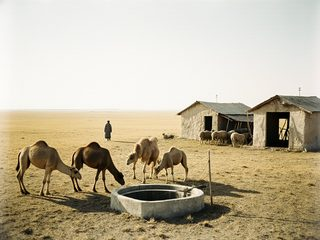
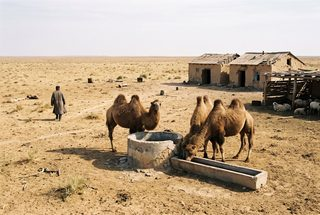
New photo for the steppe well hamlets

diff --git a/wiki/Kalmak-Kuduk.html b/wiki/Kalmak-Kuduk.html
@@ -14,7 +14,7 @@
 <meta property="og:description" content="Kalmak-Kuduk (&quot;Kalmyk well&quot;) is a borehole and watering point on the southern Betpak-Dala, in the Northern Steppe planning zone of the Autonomous Tribal…">
 <meta property="og:url" content="https://irad.wiki/wiki/Kalmak-Kuduk">
 <meta property="og:image" content="https://irad.wiki/images/Steppe_well_hamlet.jpg">
-<meta property="og:image:alt" content="A tiny steppe settlement of three low houses and a livestock shelter beside a concrete well with a water trough, camels and sheep drinking, flat yellow steppe to the horizon, one herder in a quilted coat in the distance">
+<meta property="og:image:alt" content="A tiny steppe settlement of two low mud-brick houses with tin roofs and a livestock shelter full of sheep, three Bactrian camels at a concrete well and water trough, flat yellow steppe to the horizon, a herder in a quilted coat walking away">
 <meta property="og:locale" content="en_US">
 <meta name="twitter:card" content="summary_large_image">
 <meta name="twitter:title" content="Kalmak-Kuduk – Irad Wiki">
@@ -90,7 +90,7 @@
 <div class="title-row"><h1 class="firstHeading">Kalmak-Kuduk</h1></div>
 <div class="siteSub">From Irad Wiki, the free encyclopedia</div>
 <div class="prose">
-<figure class="thumb lead" style="width:308px"><img src="/images/Steppe_well_hamlet.jpg" width="300" alt="A tiny steppe settlement of three low houses and a livestock shelter beside a concrete well with a water trough, camels and sheep drinking, flat yellow steppe to the horizon, one herder in a quilted coat in the distance"><figcaption>A borehole and watering point on the southern <a class="wl" href="/wiki/Betpak-Dala" title="Betpak-Dala">Betpak-Dala</a></figcaption></figure>
+<figure class="thumb lead" style="width:308px"><img src="/images/Steppe_well_hamlet.jpg" width="300" alt="A tiny steppe settlement of two low mud-brick houses with tin roofs and a livestock shelter full of sheep, three Bactrian camels at a concrete well and water trough, flat yellow steppe to the horizon, a herder in a quilted coat walking away"><figcaption>A borehole and watering point on the southern <a class="wl" href="/wiki/Betpak-Dala" title="Betpak-Dala">Betpak-Dala</a></figcaption></figure>
 <p><strong>Kalmak-Kuduk</strong> (&quot;Kalmyk well&quot;) is a borehole and watering point on the southern <a class="wl" href="/wiki/Betpak-Dala" title="Betpak-Dala">Betpak-Dala</a>, in the Northern Steppe planning zone of the <a class="wl" href="/wiki/Autonomous_Tribal_Regions" title="Autonomous Tribal Regions">Autonomous Tribal Regions</a>. It was drilled in 1967 to a depth of about 180 meters for a Soviet sheep farm, beside an older hand-dug well that tradition attributes to the <a class="ext" href="https://en.wikipedia.org/wiki/Dzungar_people" rel="noopener">Dzungars</a> (<em>Kalmak</em>) of the 18th century.<sup>[1]</sup> Its pump failed in 1993, and the surrounding winter pastures were little used until 2011, when an aid-funded solar pump restored the supply. It now waters about 4,000 sheep each winter.<sup>[2]</sup></p>
 <h2>References</h2>
 <ol class="references">

diff --git a/wiki/Tört-Kuduk.html b/wiki/Tört-Kuduk.html
@@ -14,7 +14,7 @@
 <meta property="og:description" content="Tört-Kuduk, an article in Irad Wiki, the free encyclopedia of Irad.">
 <meta property="og:url" content="https://irad.wiki/wiki/T%C3%B6rt-Kuduk">
 <meta property="og:image" content="https://irad.wiki/images/Steppe_well_hamlet.jpg">
-<meta property="og:image:alt" content="A tiny steppe settlement of three low houses and a livestock shelter beside a concrete well with a water trough, camels and sheep drinking, flat yellow steppe to the horizon, one herder in a quilted coat in the distance">
+<meta property="og:image:alt" content="A tiny steppe settlement of two low mud-brick houses with tin roofs and a livestock shelter full of sheep, three Bactrian camels at a concrete well and water trough, flat yellow steppe to the horizon, a herder in a quilted coat walking away">
 <meta property="og:locale" content="en_US">
 <meta name="twitter:card" content="summary_large_image">
 <meta name="twitter:title" content="Tört-Kuduk – Irad Wiki">
@@ -90,7 +90,7 @@
 <div class="title-row"><h1 class="firstHeading">Tört-Kuduk</h1></div>
 <div class="siteSub">From Irad Wiki, the free encyclopedia</div>
 <div class="prose">
-<figure class="thumb lead" style="width:308px"><img src="/images/Steppe_well_hamlet.jpg" width="300" alt="A tiny steppe settlement of three low houses and a livestock shelter beside a concrete well with a water trough, camels and sheep drinking, flat yellow steppe to the horizon, one herder in a quilted coat in the distance"><figcaption>A steppe settlement near the <a class="wl" href="/wiki/Betpak-Dala" title="Betpak-Dala">Betpak-Dala</a></figcaption></figure>
+<figure class="thumb lead" style="width:308px"><img src="/images/Steppe_well_hamlet.jpg" width="300" alt="A tiny steppe settlement of two low mud-brick houses with tin roofs and a livestock shelter full of sheep, three Bactrian camels at a concrete well and water trough, flat yellow steppe to the horizon, a herder in a quilted coat walking away"><figcaption>A steppe settlement near the <a class="wl" href="/wiki/Betpak-Dala" title="Betpak-Dala">Betpak-Dala</a></figcaption></figure>
 <p><strong>Tört-Kuduk</strong> (&quot;four wells&quot;) is a village on the southern edge of the <a class="wl" href="/wiki/Betpak-Dala" title="Betpak-Dala">Betpak-Dala</a>, in the Northern Steppe planning zone of the <a class="wl" href="/wiki/Autonomous_Tribal_Regions" title="Autonomous Tribal Regions">Autonomous Tribal Regions</a> (ATR). Its population is about 690 (2021 estimate).<sup>[1]</sup> It was founded in 1964 as the base of a Soviet hydrogeological expedition that drilled boreholes for state-farm flocks on the steppe, and it takes its name from four older hand-dug wells. Most boreholes failed after 1991; since 2010 aid-funded solar pumps have brought eleven of them back into use, and the village is a supply point for herders on the spring and autumn pastures of <a class="wl" href="/wiki/Keng-Talaa" title="Keng-Talaa">Keng-Talaa</a>.<sup>[2]</sup></p>
 <h2>References</h2>
 <ol class="references">

diff --git a/wiki/Ak-Chiy.html b/wiki/Ak-Chiy.html
@@ -14,7 +14,7 @@
 <meta property="og:description" content="Ak-Chiy, an article in Irad Wiki, the free encyclopedia of Irad.">
 <meta property="og:url" content="https://irad.wiki/wiki/Ak-Chiy">
 <meta property="og:image" content="https://irad.wiki/images/Steppe_well_hamlet.jpg">
-<meta property="og:image:alt" content="A tiny steppe settlement of three low houses and a livestock shelter beside a concrete well with a water trough, camels and sheep drinking, flat yellow steppe to the horizon, one herder in a quilted coat in the distance">
+<meta property="og:image:alt" content="A tiny steppe settlement of two low mud-brick houses with tin roofs and a livestock shelter full of sheep, three Bactrian camels at a concrete well and water trough, flat yellow steppe to the horizon, a herder in a quilted coat walking away">
 <meta property="og:locale" content="en_US">
 <meta name="twitter:card" content="summary_large_image">
 <meta name="twitter:title" content="Ak-Chiy – Irad Wiki">
@@ -90,7 +90,7 @@
 <div class="title-row"><h1 class="firstHeading">Ak-Chiy</h1></div>
 <div class="siteSub">From Irad Wiki, the free encyclopedia</div>
 <div class="prose">
-<figure class="thumb lead" style="width:308px"><img src="/images/Steppe_well_hamlet.jpg" width="300" alt="A tiny steppe settlement of three low houses and a livestock shelter beside a concrete well with a water trough, camels and sheep drinking, flat yellow steppe to the horizon, one herder in a quilted coat in the distance"><figcaption>A steppe settlement near the <a class="wl" href="/wiki/Betpak-Dala" title="Betpak-Dala">Betpak-Dala</a></figcaption></figure>
+<figure class="thumb lead" style="width:308px"><img src="/images/Steppe_well_hamlet.jpg" width="300" alt="A tiny steppe settlement of two low mud-brick houses with tin roofs and a livestock shelter full of sheep, three Bactrian camels at a concrete well and water trough, flat yellow steppe to the horizon, a herder in a quilted coat walking away"><figcaption>A steppe settlement near the <a class="wl" href="/wiki/Betpak-Dala" title="Betpak-Dala">Betpak-Dala</a></figcaption></figure>
 <p><strong>Ak-Chiy</strong> (&quot;white needlegrass&quot;) is a village in the southern <a class="wl" href="/wiki/Moiynkum_Desert" title="Moiynkum Desert">Moiynkum</a> sands, about 105 kilometers west of <a class="wl" href="/wiki/Nurzhan" title="Nurzhan">Nurzhan</a>, in the Northern Steppe planning zone of the <a class="wl" href="/wiki/Autonomous_Tribal_Regions" title="Autonomous Tribal Regions">Autonomous Tribal Regions</a> (ATR). Its population is about 520 (2021 estimate).<sup>[1]</sup> It takes its name from the tall needlegrass (<em>chiy</em>, <em>Achnatherum splendens</em>) that covers the salt flats around it, which families use as winter grazing for sheep. Women in the village weave the stems into patterned <em>chiy</em> screens, which are used as yurt walls and sold to craft shops in Nurzhan.<sup>[2]</sup></p>
 <h2>References</h2>
 <ol class="references">

diff --git a/wiki/Zhalgyz-Terek.html b/wiki/Zhalgyz-Terek.html
@@ -14,7 +14,7 @@
 <meta property="og:description" content="Zhalgyz-Terek, an article in Irad Wiki, the free encyclopedia of Irad.">
 <meta property="og:url" content="https://irad.wiki/wiki/Zhalgyz-Terek">
 <meta property="og:image" content="https://irad.wiki/images/Steppe_well_hamlet.jpg">
-<meta property="og:image:alt" content="A tiny steppe settlement of three low houses and a livestock shelter beside a concrete well with a water trough, camels and sheep drinking, flat yellow steppe to the horizon, one herder in a quilted coat in the distance">
+<meta property="og:image:alt" content="A tiny steppe settlement of two low mud-brick houses with tin roofs and a livestock shelter full of sheep, three Bactrian camels at a concrete well and water trough, flat yellow steppe to the horizon, a herder in a quilted coat walking away">
 <meta property="og:locale" content="en_US">
 <meta name="twitter:card" content="summary_large_image">
 <meta name="twitter:title" content="Zhalgyz-Terek – Irad Wiki">
@@ -90,7 +90,7 @@
 <div class="title-row"><h1 class="firstHeading">Zhalgyz-Terek</h1></div>
 <div class="siteSub">From Irad Wiki, the free encyclopedia</div>
 <div class="prose">
-<figure class="thumb lead" style="width:308px"><img src="/images/Steppe_well_hamlet.jpg" width="300" alt="A tiny steppe settlement of three low houses and a livestock shelter beside a concrete well with a water trough, camels and sheep drinking, flat yellow steppe to the horizon, one herder in a quilted coat in the distance"><figcaption>A steppe settlement near the <a class="wl" href="/wiki/Betpak-Dala" title="Betpak-Dala">Betpak-Dala</a></figcaption></figure>
+<figure class="thumb lead" style="width:308px"><img src="/images/Steppe_well_hamlet.jpg" width="300" alt="A tiny steppe settlement of two low mud-brick houses with tin roofs and a livestock shelter full of sheep, three Bactrian camels at a concrete well and water trough, flat yellow steppe to the horizon, a herder in a quilted coat walking away"><figcaption>A steppe settlement near the <a class="wl" href="/wiki/Betpak-Dala" title="Betpak-Dala">Betpak-Dala</a></figcaption></figure>
 <p><strong>Zhalgyz-Terek</strong> (&quot;lone poplar&quot;) is a hamlet in the <a class="wl" href="/wiki/Moiynkum_Desert" title="Moiynkum Desert">Moiynkum</a> sands, in the Northern Steppe planning zone of the <a class="wl" href="/wiki/Autonomous_Tribal_Regions" title="Autonomous Tribal Regions">Autonomous Tribal Regions</a> (ATR). Its population is about 340 (2021 estimate).<sup>[1]</sup> It began as a single herder's homestead beside a spring shaded by a large poplar, which travelers on the track across the sands used as a resting place, and grew into a village when a Soviet sheep farm built a winter camp there in the 1950s. The old poplar died in 1997; a younger tree planted beside the spring now gives the hamlet its shade.<sup>[2]</sup></p>
 <h2>References</h2>
 <ol class="references">

diff --git a/wiki/Tash-Kuduk.html b/wiki/Tash-Kuduk.html
@@ -14,7 +14,7 @@
 <meta property="og:description" content="Tash-Kuduk, an article in Irad Wiki, the free encyclopedia of Irad.">
 <meta property="og:url" content="https://irad.wiki/wiki/Tash-Kuduk">
 <meta property="og:image" content="https://irad.wiki/images/Steppe_well_hamlet.jpg">
-<meta property="og:image:alt" content="A tiny steppe settlement of three low houses and a livestock shelter beside a concrete well with a water trough, camels and sheep drinking, flat yellow steppe to the horizon, one herder in a quilted coat in the distance">
+<meta property="og:image:alt" content="A tiny steppe settlement of two low mud-brick houses with tin roofs and a livestock shelter full of sheep, three Bactrian camels at a concrete well and water trough, flat yellow steppe to the horizon, a herder in a quilted coat walking away">
 <meta property="og:locale" content="en_US">
 <meta name="twitter:card" content="summary_large_image">
 <meta name="twitter:title" content="Tash-Kuduk – Irad Wiki">
@@ -90,7 +90,7 @@
 <div class="title-row"><h1 class="firstHeading">Tash-Kuduk</h1></div>
 <div class="siteSub">From Irad Wiki, the free encyclopedia</div>
 <div class="prose">
-<figure class="thumb lead" style="width:308px"><img src="/images/Steppe_well_hamlet.jpg" width="300" alt="A tiny steppe settlement of three low houses and a livestock shelter beside a concrete well with a water trough, camels and sheep drinking, flat yellow steppe to the horizon, one herder in a quilted coat in the distance"><figcaption>A steppe settlement near the <a class="wl" href="/wiki/Betpak-Dala" title="Betpak-Dala">Betpak-Dala</a></figcaption></figure>
+<figure class="thumb lead" style="width:308px"><img src="/images/Steppe_well_hamlet.jpg" width="300" alt="A tiny steppe settlement of two low mud-brick houses with tin roofs and a livestock shelter full of sheep, three Bactrian camels at a concrete well and water trough, flat yellow steppe to the horizon, a herder in a quilted coat walking away"><figcaption>A steppe settlement near the <a class="wl" href="/wiki/Betpak-Dala" title="Betpak-Dala">Betpak-Dala</a></figcaption></figure>
 <p><strong>Tash-Kuduk</strong> (&quot;stone well&quot;) is a hamlet in the southern <a class="wl" href="/wiki/Moiynkum_Desert" title="Moiynkum Desert">Moiynkum</a> sands, in the Northern Steppe planning zone of the <a class="wl" href="/wiki/Autonomous_Tribal_Regions" title="Autonomous Tribal Regions">Autonomous Tribal Regions</a> (ATR). Its population is about 160 (2021 estimate).<sup>[1]</sup> It grew up around a well about 40 meters deep, lined with dressed stone, which local tradition dates to the 15th century and which still waters herds on the old track across the sands. Since 2014 a solar pump has supplemented the hand windlass.<sup>[2]</sup></p>
 <h2>References</h2>
 <ol class="references">
